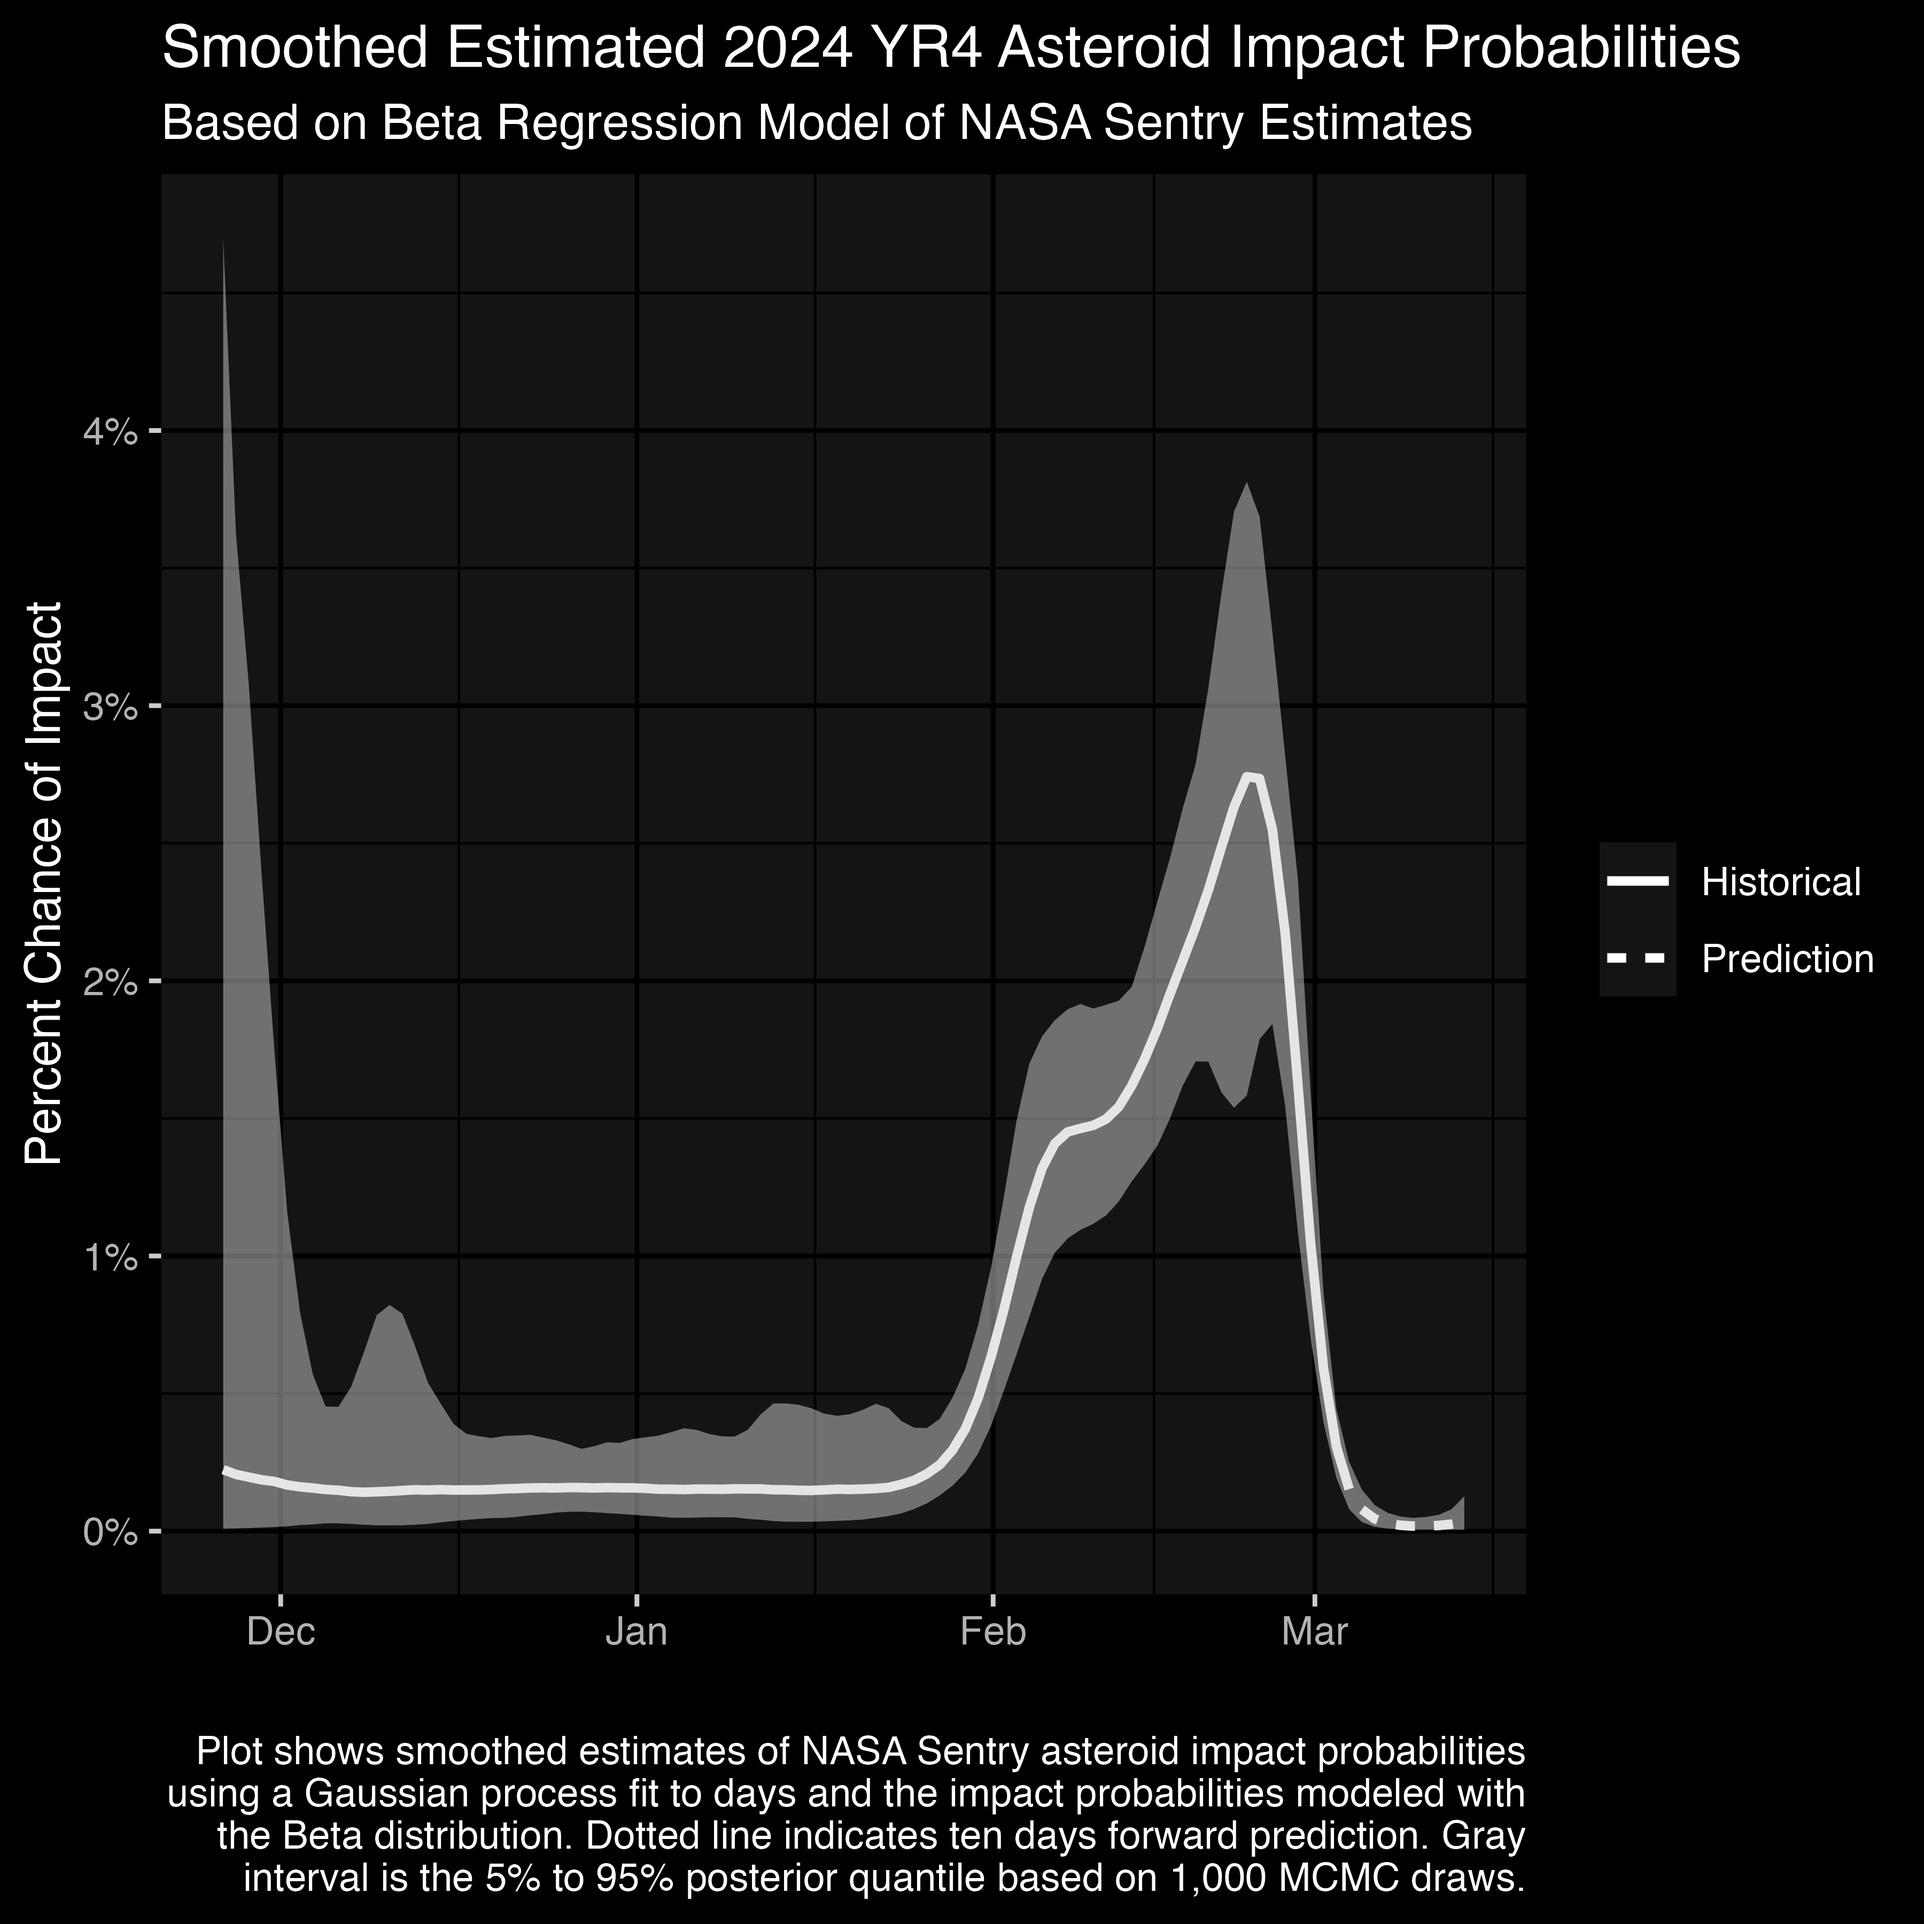
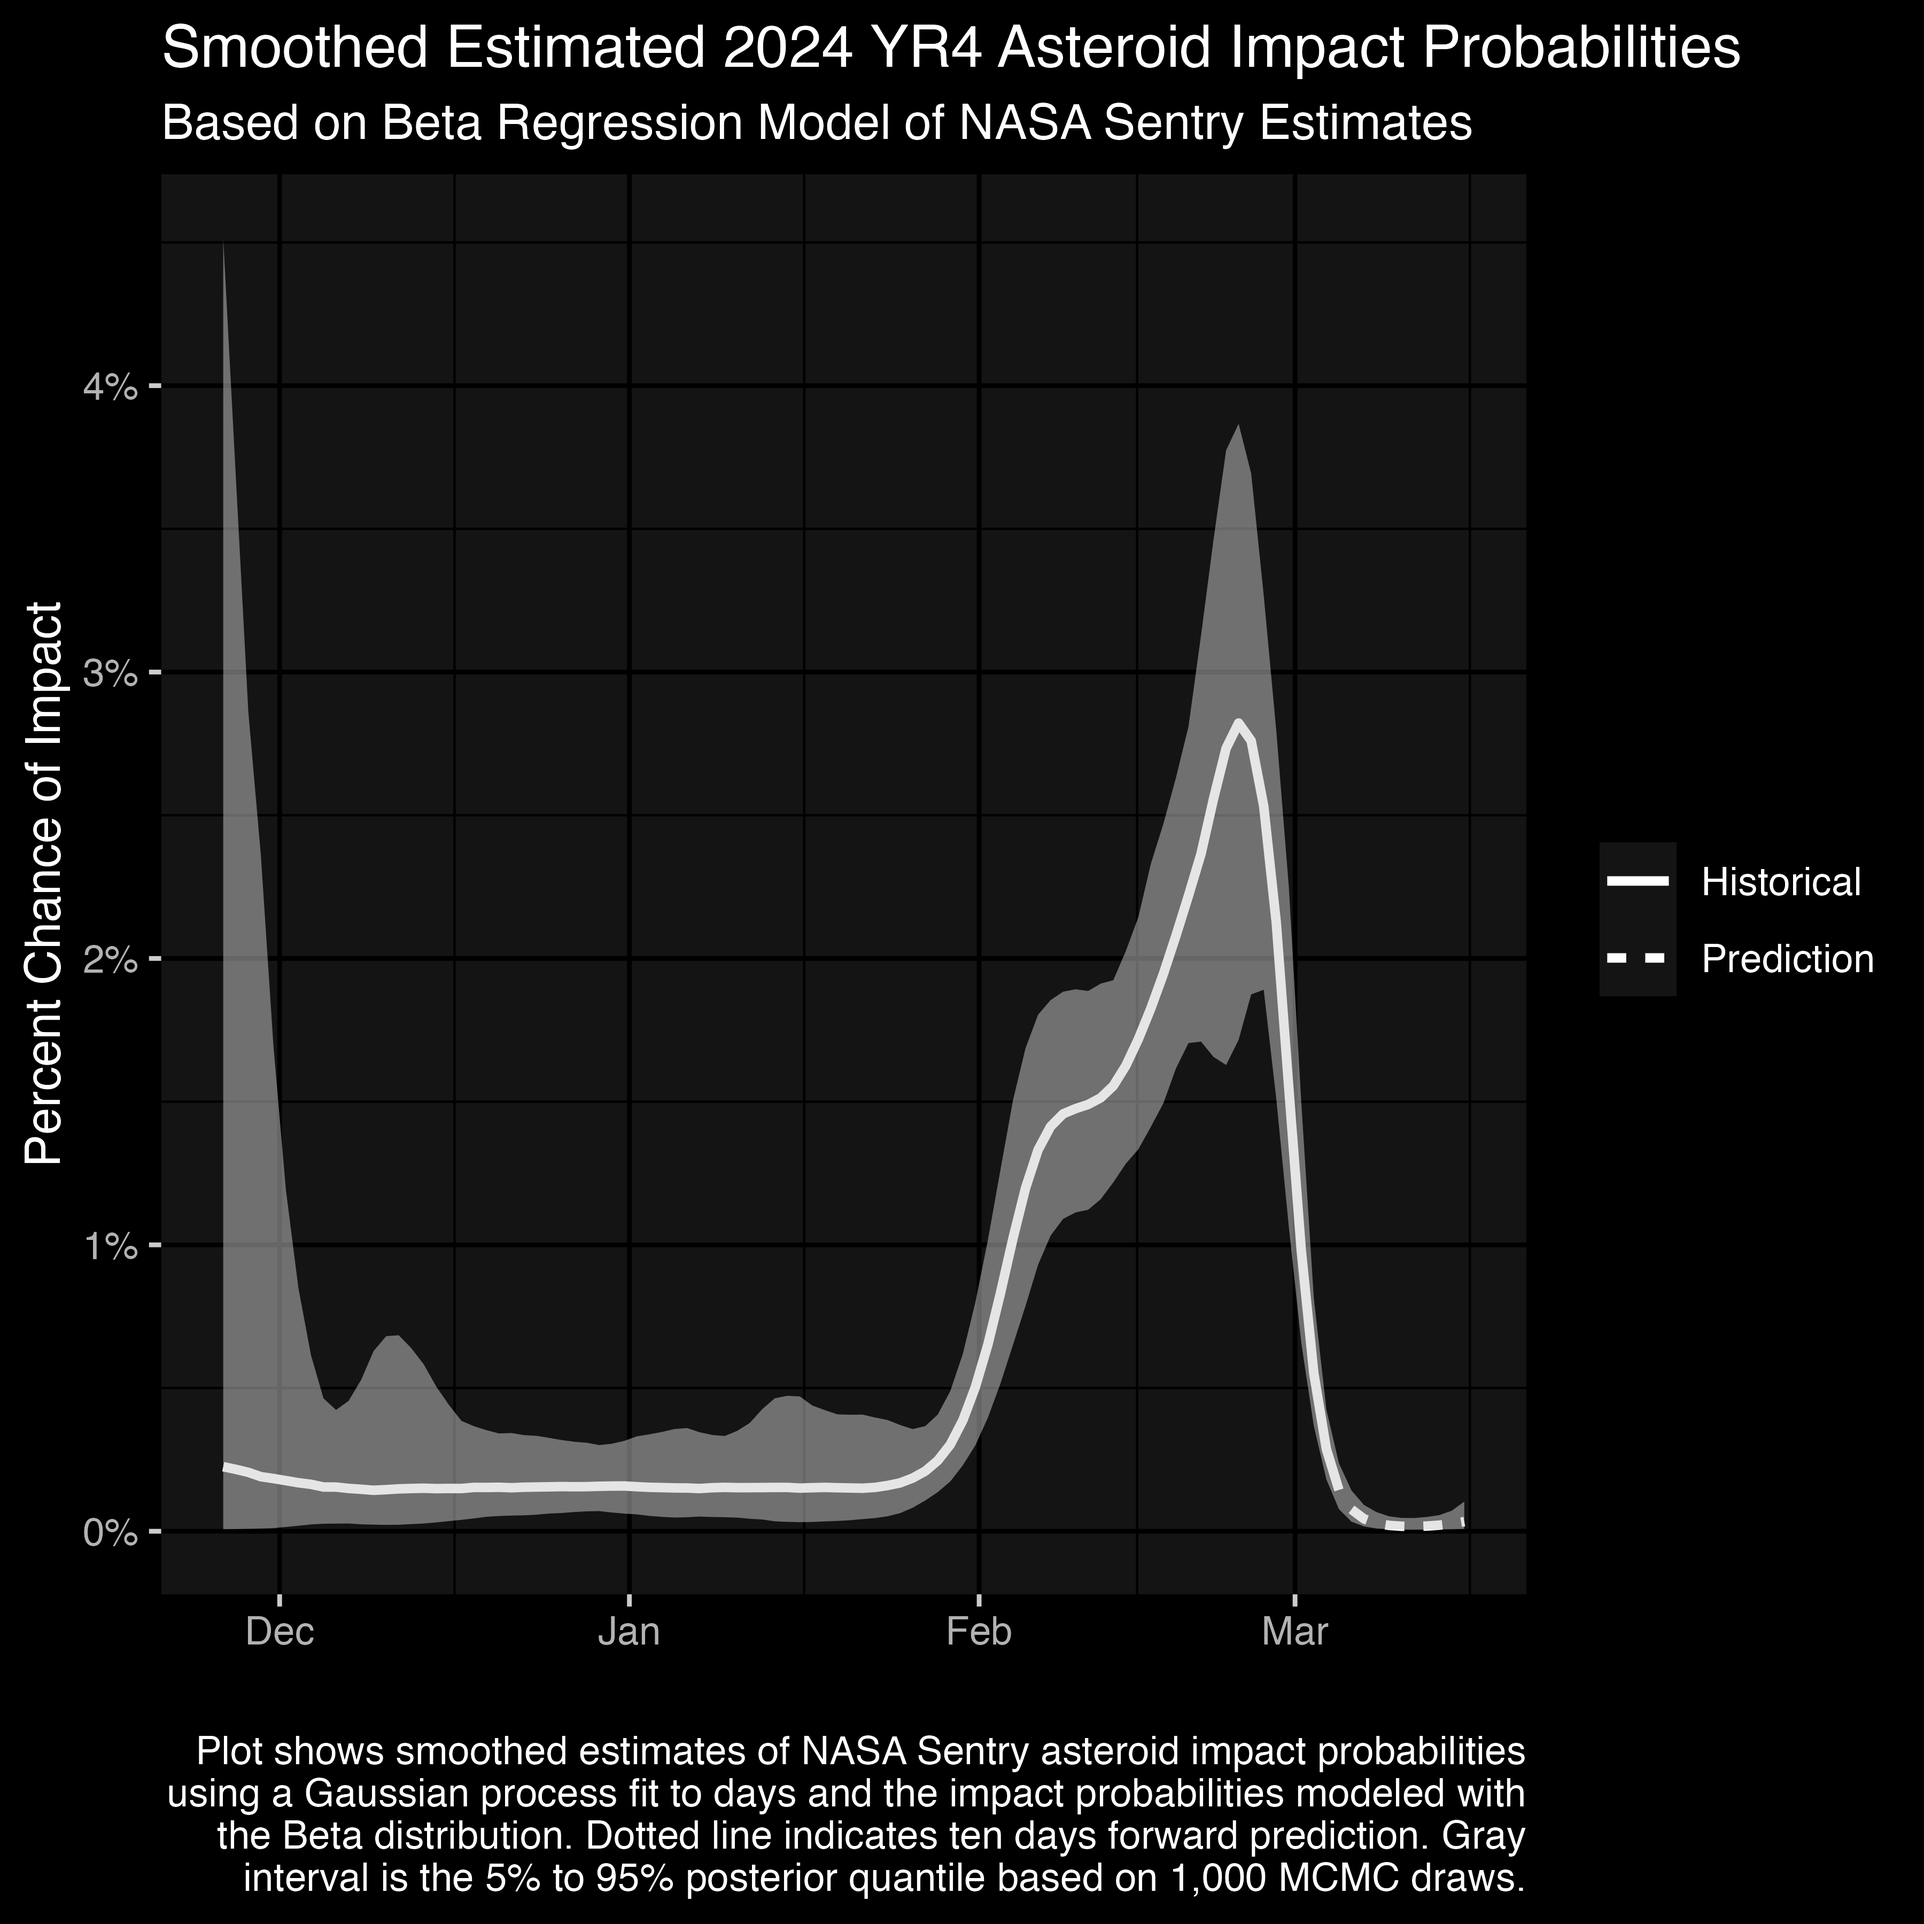
NASA Sentry smoother prediction 2025-03-06

diff --git a/_site/post/nasa_beta/index.html b/_site/post/nasa_beta/index.html
@@ -409,12 +409,12 @@ gtag('config', 'G-BHP1PJ9LEX', { 'anonymize_ip': true});
 <div class="cell-output cell-output-stdout">
 <pre><code>Running MCMC with 2 chains, at most 8 in parallel...
 
-Chain 1 finished in 48.6 seconds.
-Chain 2 finished in 53.3 seconds.
+Chain 1 finished in 42.8 seconds.
+Chain 2 finished in 47.0 seconds.
 
 Both chains finished successfully.
-Mean chain execution time: 51.0 seconds.
-Total execution time: 53.5 seconds.</code></pre>
+Mean chain execution time: 44.9 seconds.
+Total execution time: 47.2 seconds.</code></pre>
 </div>
 <details class="code-fold">
 <summary>Show the code</summary>
@@ -562,7 +562,7 @@ Total execution time: 53.5 seconds.</code></pre>
 </section>
 <section id="current-estimates" class="level2">
 <h2 class="anchored" data-anchor-id="current-estimates">Current Estimates</h2>
-<p>As mentioned above, NASA has released more estimates since February 18th. In this section, I re-fit the model and predict for up to 10 days head using all of their Sentry data going back to November 2024. I will keep updating this section on a daily basis as more data comes in. The estimates below are current as of <strong>Tuesday, March 04, 2025</strong>.</p>
+<p>As mentioned above, NASA has released more estimates since February 18th. In this section, I re-fit the model and predict for up to 10 days head using all of their Sentry data going back to November 2024. I will keep updating this section on a daily basis as more data comes in. The estimates below are current as of <strong>Thursday, March 06, 2025</strong>.</p>
 <p>This code fits the model to the current data:</p>
 <div class="cell" data-layout-align="center">
 <details class="code-fold">
@@ -602,12 +602,12 @@ Total execution time: 53.5 seconds.</code></pre>
 <div class="cell-output cell-output-stdout">
 <pre><code>Running MCMC with 2 chains, at most 8 in parallel...
 
-Chain 2 finished in 64.0 seconds.
-Chain 1 finished in 66.1 seconds.
+Chain 2 finished in 32.7 seconds.
+Chain 1 finished in 38.5 seconds.
 
 Both chains finished successfully.
-Mean chain execution time: 65.0 seconds.
-Total execution time: 66.2 seconds.</code></pre>
+Mean chain execution time: 35.6 seconds.
+Total execution time: 38.6 seconds.</code></pre>
 </div>
 </div>
 <p>And here are the model predictions with 10 days ahead plus fitted estimates to all previous NASA Sentry predictions:</p>
